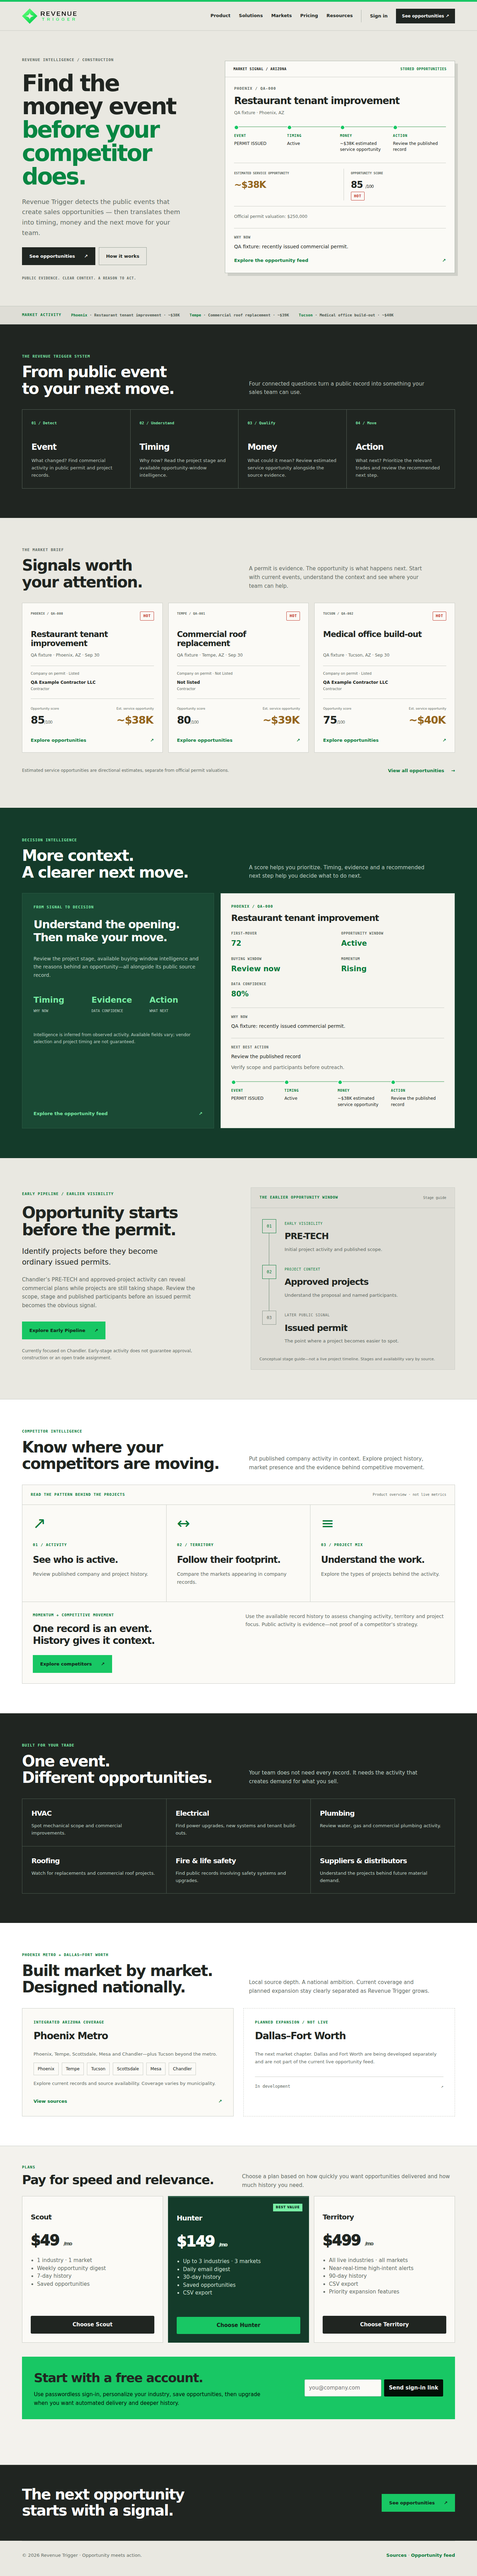
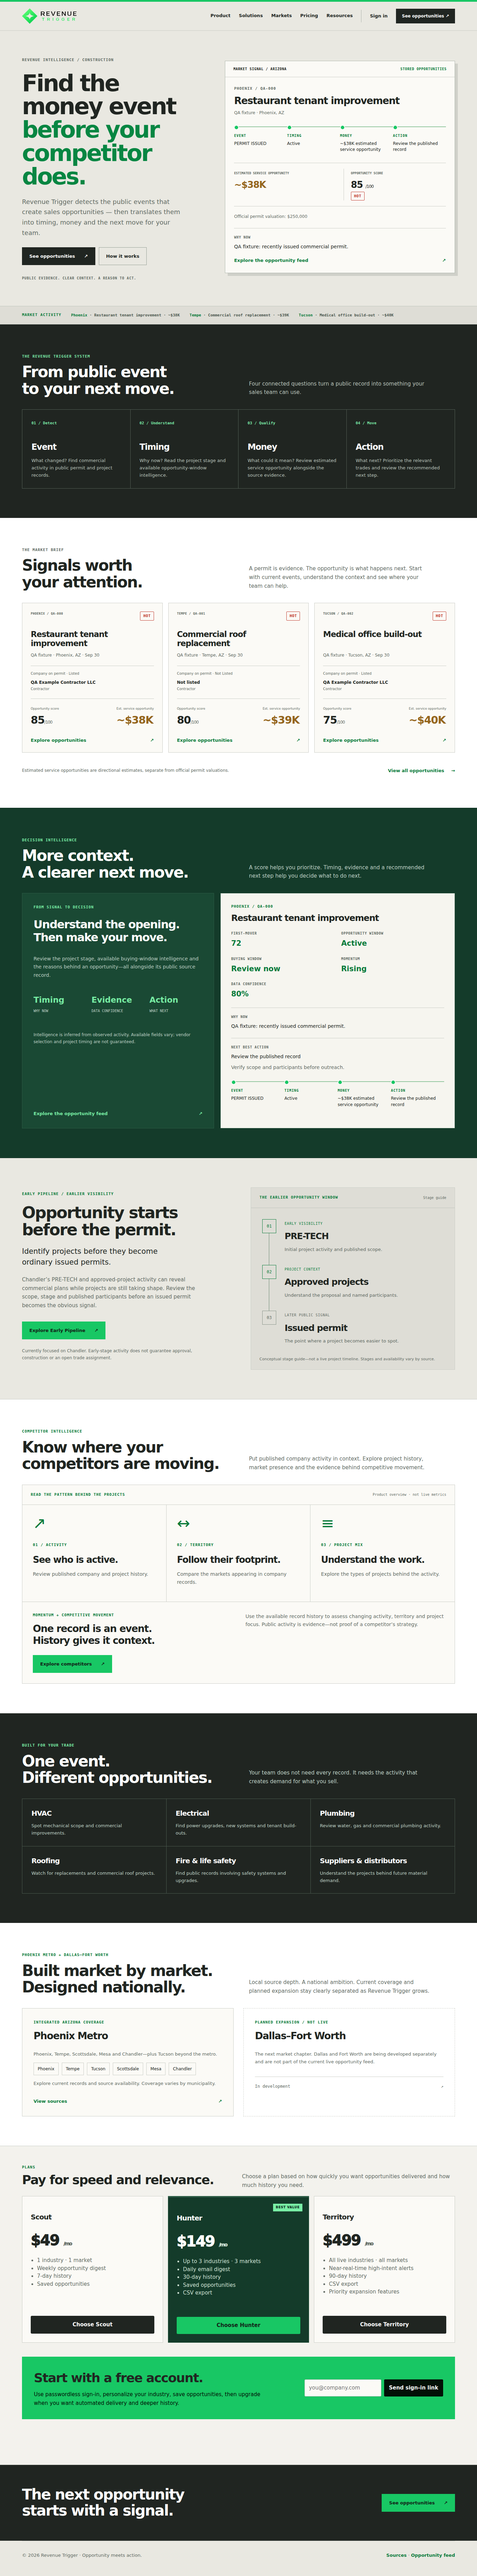
Use white theme for homepage Market Brief

Changed region(s): [[0.0, 0.1871, 1.0, 0.3118]]

diff --git a/frontend/public/assets/rt-marketing.css b/frontend/public/assets/rt-marketing.css
@@ -91,3 +91,6 @@ body.rt-marketing #markets .rt-market-panel{background:var(--paper);border-color
 body.rt-marketing #markets .rt-market-planned{background:#fff}
 body.rt-marketing #markets .rt-market-list span{border-color:var(--rt-line);color:var(--graphite)}
 body.rt-marketing #markets .rt-planned-label{border-color:var(--rt-line);color:var(--rt-muted)}
+
+/* Market Brief: white section, existing opportunity cards preserved. */
+body.rt-marketing #opportunities{background:#fff}

diff --git a/docs/redesign/REVIEW.md b/docs/redesign/REVIEW.md
@@ -10,6 +10,10 @@
 - Backend changes: **none**
 - D1, adapters, scoring, temperature, auth contracts, billing contracts, cron, DFW, and Cloudflare configuration: **unchanged**
 
+## Market Brief palette update
+
+Changed only the Market Brief (`#opportunities`) section background to white. Card styling, layout, content and data behavior remain unchanged. Desktop/mobile previews refreshed using intercepted synthetic/local data. No production requests, merge or deployment.
+
 ## Homepage palette revision — September 30, 2026
 
 Parent: `9b8837c1c848246c94f18c0aea59343d93e38532`. Updated only homepage theme CSS: Early Pipeline uses cement, Competitor Intelligence uses white, Built for Your Trade uses black/graphite, and Markets uses white. Text, borders and stage indicators were adjusted for contrast. Content, section order, layouts and all application behavior remain unchanged. These colors supersede the corresponding themes in the visual-pass entry below.
